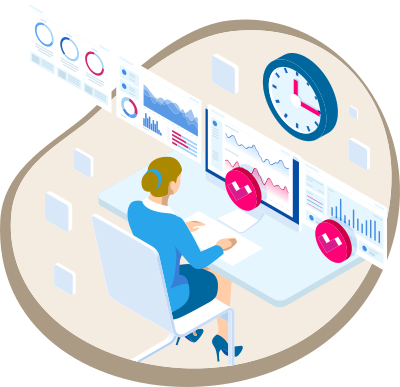
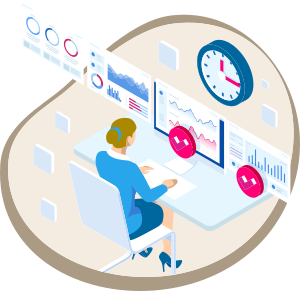
img

diff --git a/docs/_layouts/default.html b/docs/_layouts/default.html
@@ -94,7 +94,7 @@
         <div class="row">
             <div class="offset-xl-2 col-xl-3 col-lg-6 col-md-6 col-sm-6 col-xs-12">
                 <div class="d-flex align-items-center justify-content-center p-3 pr-4">
-                    <img src="../assets/images/dashV1.png" style="max-width: 400px;" alt="Dashbord">
+                    <img src="../assets/images/dashV1.png" style="max-width: 300px;" alt="Dashbord">
                 </div>
             </div>
             <div class="col-xl-5 col-lg-6 col-md-6 col-sm-6 col-xs-12">
